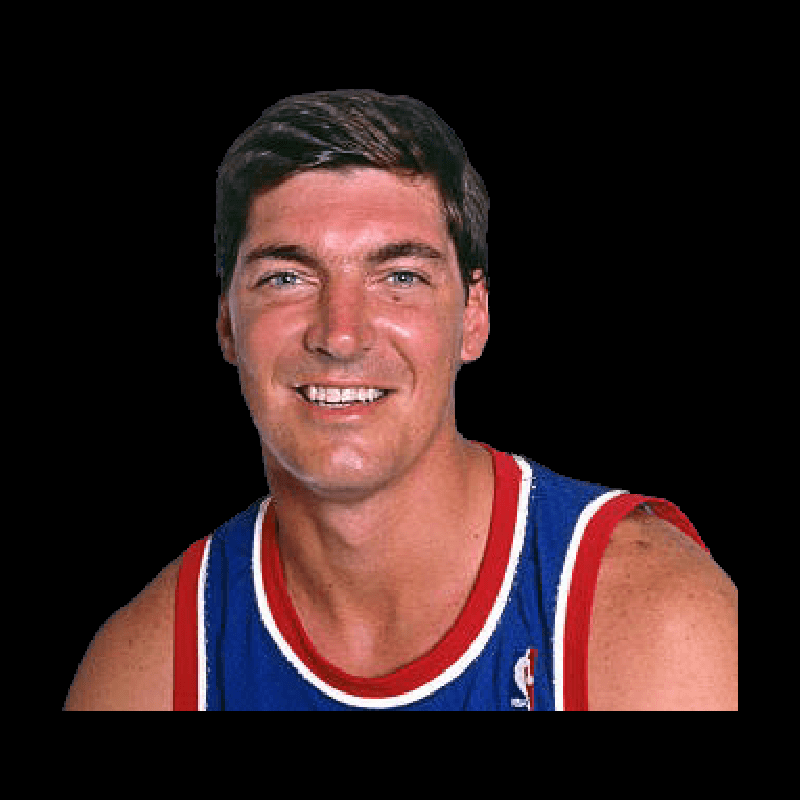
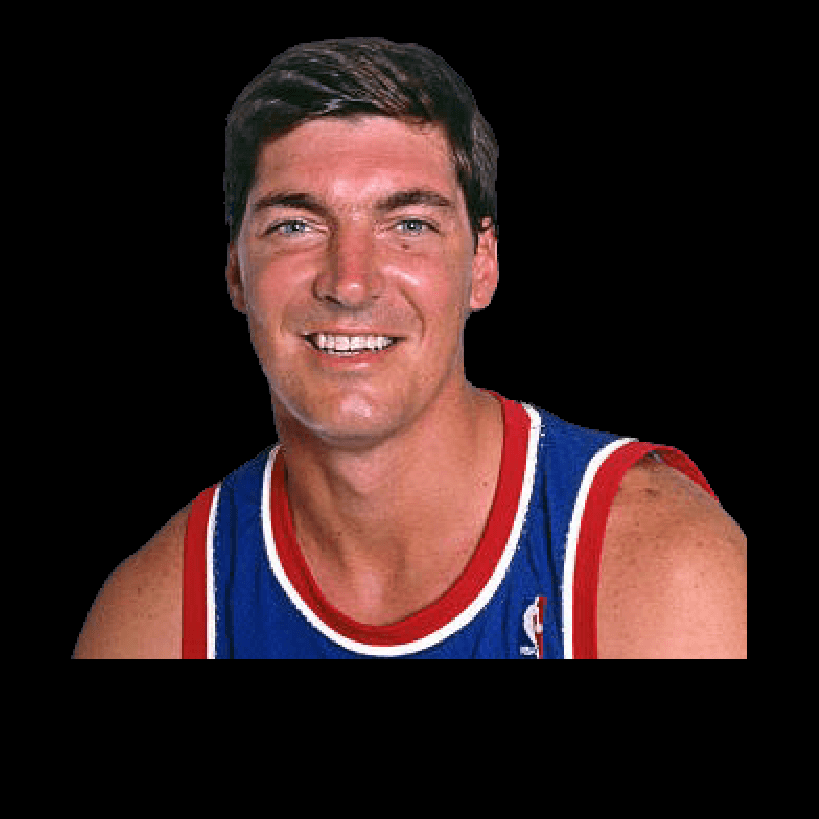
dffs

diff --git a/src/football/pyramid/defaultPyramid.ts b/src/football/pyramid/defaultPyramid.ts
@@ -18,7 +18,7 @@ export const PYRAMID_TIER_SCALES = [1, 1, 1, 1, 1, 0.98, 0.96, 0.94, 0.9] as con
 export type PyramidViewId = "pyramid" | "ring" | "jersey" | "draft";
 
 /** Bump when curated Top 50 / reserve seed changes so saved pyramids refresh. */
-export const PYRAMID_SEED_VERSION = 4;
+export const PYRAMID_SEED_VERSION = 5;
 
 export type PyramidSave = {
   size: typeof PYRAMID_SIZE;
@@ -50,7 +50,7 @@ export const DEFAULT_PYRAMID_ORDER: readonly string[] = [
   "classic_bos_1985_86_p03", // 5 Larry Bird
   "classic_lal_1971_72_p05", // 6 Wilt Chamberlain
   "classic_bos_1964_65_p05", // 7 Bill Russell
-  "classic_lal_2000_01_p02", // 8 Kobe Bryant
+  "classic_lal_2009_10_p02", // 8 Kobe Bryant (#24, 2009/10 — omit 2000/01 #8 duplicate)
   "classic_lal_2000_01_p05", // 9 Shaquille O'Neal
   "classic_sas_1998_99_p04", // 10 Tim Duncan
   "classic_hou_1994_95_p05", // 11 Hakeem Olajuwon
@@ -95,60 +95,61 @@ export const DEFAULT_PYRAMID_ORDER: readonly string[] = [
   "classic_sac_2001_02_p04", // 50 Chris Webber
 ];
 
-/** Curated reserve 51–100 — elevate/swap into Top 50; excluded from Ring. */
+/**
+ * Curated reserve 51–100 — elevate/swap into Top 50; excluded from Ring.
+ * Ordered by peak overall (then name), not by club — avoids team clumps.
+ */
 export const DEFAULT_PYRAMID_POOL: readonly string[] = [
-  "classic_det_1988_89_p02", // Joe Dumars
-  "classic_okc_1995_96_p04", // Shawn Kemp
-  "classic_phx_2004_05_p05", // Amar'e Stoudemire
-  "classic_chi_1995_96_p04", // Dennis Rodman
-  "classic_bos_1985_86_p05", // Robert Parish
-  "classic_bos_1985_86_p06", // Bill Walton
-  "classic_gsw_2016_17_p04", // Draymond Green
-  "classic_sas_2013_14_p01", // Tony Parker
-  "classic_phi_2000_01_p05", // Dikembe Mutombo
-  "classic_det_1988_89_p05", // Bill Laimbeer
-  "classic_mil_2020_21_p02", // Khris Middleton
-  "classic_mil_2020_21_p01", // Jrue Holiday
-  "classic_phx_1992_93_p01", // Kevin Johnson
-  "classic_atl_1990_91_p03", // Dominique Wilkins (from Top 50 for Hardaway/Gasol)
-  "classic_cin_1963_64_p10", // Jerry Lucas
-  "classic_hou_2006_07_p05", // Yao Ming (from Top 50 for Hardaway/Gasol)
-  "classic_dal_2010_11_p02", // Jason Terry
-  "classic_dal_2010_11_p03", // Shawn Marion
-  "classic_dal_2010_11_p05", // Tyson Chandler
-  "classic_bos_2007_08_p01", // Rajon Rondo
-  "classic_den_2022_23_p01", // Jamal Murray
-  "classic_gsw_2016_17_p06", // Andre Iguodala
-  "classic_chi_1995_96_p06", // Toni Kukoc
-  "classic_chi_1995_96_p01", // Ron Harper
-  "classic_lal_2000_01_p06", // Robert Horry
-  "classic_lal_2000_01_p04", // Horace Grant (also Magic 94/95 — one identity only)
-  "classic_lal_2000_01_p01", // Derek Fisher (also Lakers 09/10 — one identity only)
-  "classic_lal_1986_87_p02", // Byron Scott
-  "classic_bos_1985_86_p01", // Dennis Johnson
-  "classic_bos_1985_86_p02", // Danny Ainge
-  "classic_hou_1994_95_p01", // Kenny Smith
-  "classic_hou_1994_95_p06", // Sam Cassell
-  "classic_uta_1997_98_p02", // Jeff Hornacek
-  "classic_nyk_1993_94_p02", // John Starks
-  "classic_nyk_1993_94_p04", // Anthony Mason
-  "classic_phx_1992_93_p02", // Dan Majerle
-  "classic_phi_1982_83_p01", // Maurice Cheeks
-  "classic_mil_2020_21_p05", // Brook Lopez
-  "classic_bkn_2000_01_p01", // Stephon Marbury
-  "classic_cha_1992_93_p04", // Larry Johnson
-  "classic_sas_2013_14_p02", // Manu Ginobili
-  "classic_dal_2010_11_p01", // Jason Kidd
-  "classic_bos_1964_65_p02", // Sam Jones
-  "classic_mia_2012_13_p05", // Chris Bosh
-  "classic_gsw_2016_17_p02", // Klay Thompson
-  // Orlando Magic 1994/95 (Shaq/Horace already seeded via other eras)
-  "classic_orl_1994_95_p02", // Nick Anderson
-  "classic_orl_1994_95_p03", // Dennis Scott
-  // Lakers 2009/10 (Kobe/Fisher already seeded via 2000/01)
-  "classic_lal_2009_10_p03", // Metta World Peace
-  "classic_lal_2009_10_p06", // Lamar Odom
-  "classic_lal_2009_10_p05", // Andrew Bynum
+  "classic_dal_2010_11_p01", // 51 Jason Kidd (90)
+  "classic_atl_1990_91_p03", // 52 Dominique Wilkins (89)
+  "classic_gsw_2016_17_p02", // 53 Klay Thompson (89)
+  "classic_sas_2013_14_p02", // 54 Manu Ginobili (89)
+  "classic_phx_2004_05_p05", // 55 Amar'e Stoudemire (88)
+  "classic_mia_2012_13_p05", // 56 Chris Bosh (88)
+  "classic_chi_1995_96_p04", // 57 Dennis Rodman (88)
+  "classic_gsw_2016_17_p04", // 58 Draymond Green (88)
+  "classic_cin_1963_64_p10", // 59 Jerry Lucas (88)
+  "classic_cha_1992_93_p04", // 60 Larry Johnson (88)
+  "classic_bos_1985_86_p05", // 61 Robert Parish (88)
+  "classic_bos_1964_65_p02", // 62 Sam Jones (88)
+  "classic_okc_1995_96_p04", // 63 Shawn Kemp (88)
+  "classic_bkn_2000_01_p01", // 64 Stephon Marbury (88)
+  "classic_sas_2013_14_p01", // 65 Tony Parker (88)
+  "classic_hou_2006_07_p05", // 66 Yao Ming (88)
+  "classic_bos_1985_86_p06", // 67 Bill Walton (87)
+  "classic_den_2022_23_p01", // 68 Jamal Murray (87)
+  "classic_gsw_2016_17_p06", // 69 Andre Iguodala (86)
+  "classic_phi_2000_01_p05", // 70 Dikembe Mutombo (86)
+  "classic_det_1988_89_p02", // 71 Joe Dumars (86)
+  "classic_mil_2020_21_p01", // 72 Jrue Holiday (86)
+  "classic_phx_1992_93_p01", // 73 Kevin Johnson (86)
+  "classic_mil_2020_21_p02", // 74 Khris Middleton (86)
+  "classic_lal_2009_10_p06", // 75 Lamar Odom (86)
+  "classic_phi_1982_83_p01", // 76 Maurice Cheeks (86)
+  "classic_bos_1985_86_p01", // 77 Dennis Johnson (85)
+  "classic_lal_2009_10_p05", // 78 Andrew Bynum (84)
+  "classic_lal_2000_01_p04", // 79 Horace Grant (84)
+  "classic_uta_1997_98_p02", // 80 Jeff Hornacek (84)
+  "classic_lal_2009_10_p03", // 81 Metta World Peace (84)
+  "classic_orl_1994_95_p02", // 82 Nick Anderson (84)
+  "classic_chi_1995_96_p06", // 83 Toni Kukoc (84)
+  "classic_nyk_1993_94_p04", // 84 Anthony Mason (82)
+  "classic_det_1988_89_p05", // 85 Bill Laimbeer (82)
+  "classic_mil_2020_21_p05", // 86 Brook Lopez (82)
+  "classic_lal_1986_87_p02", // 87 Byron Scott (82)
+  "classic_phx_1992_93_p02", // 88 Dan Majerle (82)
+  "classic_bos_1985_86_p02", // 89 Danny Ainge (82)
+  "classic_orl_1994_95_p03", // 90 Dennis Scott (82)
+  "classic_dal_2010_11_p02", // 91 Jason Terry (82)
+  "classic_hou_1994_95_p01", // 92 Kenny Smith (82)
+  "classic_bos_2007_08_p01", // 93 Rajon Rondo (82)
+  "classic_chi_1995_96_p01", // 94 Ron Harper (82)
+  "classic_dal_2010_11_p03", // 95 Shawn Marion (82)
+  "classic_dal_2010_11_p05", // 96 Tyson Chandler (82)
+  "classic_nyk_1993_94_p02", // 97 John Starks (80)
+  "classic_lal_2000_01_p06", // 98 Robert Horry (80)
+  "classic_lal_2000_01_p01", // 99 Derek Fisher (79)
+  "classic_hou_1994_95_p06", // 100 Sam Cassell (74)
 ];
 
 export function defaultPyramidSave(): PyramidSave {

diff --git a/src/football/pyramid/defaultPyramid.test.ts b/src/football/pyramid/defaultPyramid.test.ts
@@ -33,11 +33,14 @@ describe("defaultPyramid", () => {
     expect(DEFAULT_PYRAMID_ORDER).toContain("classic_phx_1992_93_p04"); // Barkley
     expect(DEFAULT_PYRAMID_ORDER).toContain("classic_orl_1994_95_p01"); // Penny Hardaway
     expect(DEFAULT_PYRAMID_ORDER).toContain("classic_lal_2009_10_p04"); // Pau Gasol
+    expect(DEFAULT_PYRAMID_ORDER).toContain("classic_lal_2009_10_p02"); // Kobe #24 (09/10)
     expect(DEFAULT_PYRAMID_POOL).toContain("classic_orl_1994_95_p02"); // Nick Anderson
     expect(DEFAULT_PYRAMID_POOL).toContain("classic_lal_2009_10_p03"); // Metta World Peace
-    // One form per person — Magic Shaq / 09–10 Kobe stay out (already Lakers 00/01).
+    // Pool ranked by OVR — no team clumps (e.g. three Bulls in a row).
+    expect(DEFAULT_PYRAMID_POOL[0]).toBe("classic_dal_2010_11_p01"); // Kidd #51
+    // One form per person — Magic Shaq / 00–01 Kobe stay out (09/10 Kobe is the seed).
     expect(DEFAULT_PYRAMID_ORDER.concat(DEFAULT_PYRAMID_POOL)).not.toContain("classic_orl_1994_95_p05");
-    expect(DEFAULT_PYRAMID_ORDER.concat(DEFAULT_PYRAMID_POOL)).not.toContain("classic_lal_2009_10_p02");
+    expect(DEFAULT_PYRAMID_ORDER.concat(DEFAULT_PYRAMID_POOL)).not.toContain("classic_lal_2000_01_p02");
     expect(PYRAMID_TIER_COUNTS.reduce((a, b) => a + b, 0)).toBe(PYRAMID_SIZE);
     expect(PYRAMID_TIER_SCALES).toHaveLength(PYRAMID_TIER_COUNTS.length);
     const overlap = DEFAULT_PYRAMID_POOL.filter((id) => DEFAULT_PYRAMID_ORDER.includes(id));
@@ -127,13 +130,13 @@ describe("defaultPyramid", () => {
       pool: DEFAULT_PYRAMID_POOL,
       view: "ring",
       size: 50,
-      seedVersion: 4,
+      seedVersion: 5,
     });
     expect(save.view).toBe("ring");
     expect(save.pool).toHaveLength(PYRAMID_POOL_SIZE);
     expect(defaultPyramidSave().view).toBe("pyramid");
     expect(defaultPyramidSave().pool).toHaveLength(PYRAMID_POOL_SIZE);
-    expect(defaultPyramidSave().seedVersion).toBe(4);
+    expect(defaultPyramidSave().seedVersion).toBe(5);
   });
 
   it("replaces a stale seed with the curated Top 50", () => {
@@ -149,6 +152,7 @@ describe("defaultPyramid", () => {
     expect(stale.order).toContain("classic_okc_2011_12_p01");
     expect(stale.order).toContain("classic_orl_1994_95_p01");
     expect(stale.order).toContain("classic_lal_2009_10_p04");
-    expect(stale.seedVersion).toBe(4);
+    expect(stale.order).toContain("classic_lal_2009_10_p02");
+    expect(stale.seedVersion).toBe(5);
   });
 });

diff --git a/src/ui/Pyramid.ts b/src/ui/Pyramid.ts
@@ -842,11 +842,17 @@ export class PyramidHub {
     const byNum = new Map<number, JerseyCand[]>();
     const order = this.state().order;
     const pool = this.state().pool;
-    for (const player of this.db.players.values()) {
-      const mem = this.db.membershipsForPlayer(player.id)[0];
-      if (!mem) continue;
+    // Walk memberships so era kits (e.g. Kobe #24 on 09/10, #8 on 00/01) all appear,
+    // even when Pyramid/Draft keep a single identity form.
+    const seenSlot = new Set<string>();
+    for (const mem of this.db.memberships) {
       const n = mem.shirtNumber;
       if (!Number.isFinite(n) || n < 0 || n > 99) continue;
+      const player = this.db.players.get(mem.playerId);
+      if (!player) continue;
+      const slotKey = `${mem.playerId}:${n}:${mem.teamId}`;
+      if (seenSlot.has(slotKey)) continue;
+      seenSlot.add(slotKey);
       const orderIdx = order.indexOf(player.id);
       const poolIdx = pool.indexOf(player.id);
       const index = orderIdx >= 0 ? orderIdx : poolIdx >= 0 ? PYRAMID_SIZE + poolIdx : -1;

diff --git a/src/football/teams/Formation.ts b/src/football/teams/Formation.ts
@@ -31,8 +31,8 @@ const FORMATIONS: Record<FormationName, FormationSlot[]> = {
     { id: "SG", role: "MID", x: 0.28, z: 0.34 },
     { id: "SF", role: "FWD", x: 0.28, z: -0.34 },
     { id: "PF", role: "DEF", x: 0.6, z: 0.16 },
-    /** Slightly left of centre — milder offset than PF’s 0.16. */
-    { id: "C", role: "DEF", x: 0.8, z: -0.11 },
+    /** Left of centre — milder offset than PF’s 0.16. */
+    { id: "C", role: "DEF", x: 0.8, z: -0.14 },
   ],
   "4-2-3-1": [
     { id: "GK", role: "GK", x: 0.07, z: 0 },
